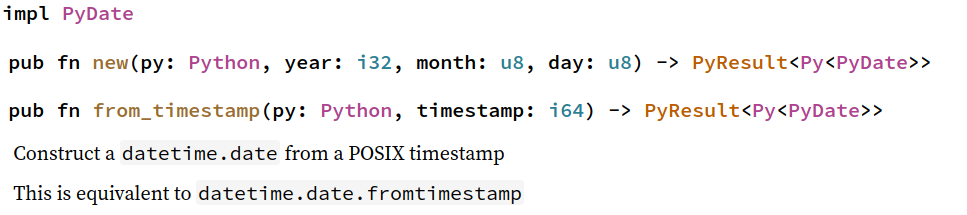
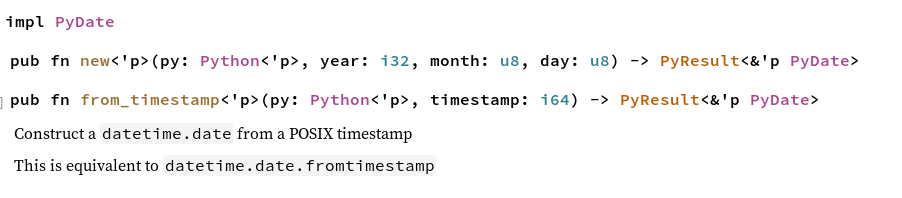
Update to latest version of Pyo3

diff --git a/_posts/0000-04-05-rust-pyo3.md b/_posts/0000-04-05-rust-pyo3.md
@@ -152,11 +152,9 @@ pub unsafe fn PyDate_Check(op: *mut PyObject) -> c_int {
 # PyO3: How it works
 
 ## Safe Rust Layer
-
 ```rust
 impl PyDate {
-    pub fn new(py: Python,
-               year: i32, month: u8, day: u8) -> PyResult<Py<PyDate>> {
+    pub fn new<'p>(py: Python<'p>, year: i32, month: u8, day: u8) -> PyResult<&'p PyDate> {
         unsafe {
             let ptr = (PyDateTimeAPI.Date_FromDate)(
                 year,
@@ -164,9 +162,10 @@ impl PyDate {
                 c_int::from(day),
                 PyDateTimeAPI.DateType,
             );
-            Py::from_owned_ptr_or_err(py, ptr)
+            py.from_owned_ptr_or_err(ptr)
         }
     }
+
     ...
 }
 ```
